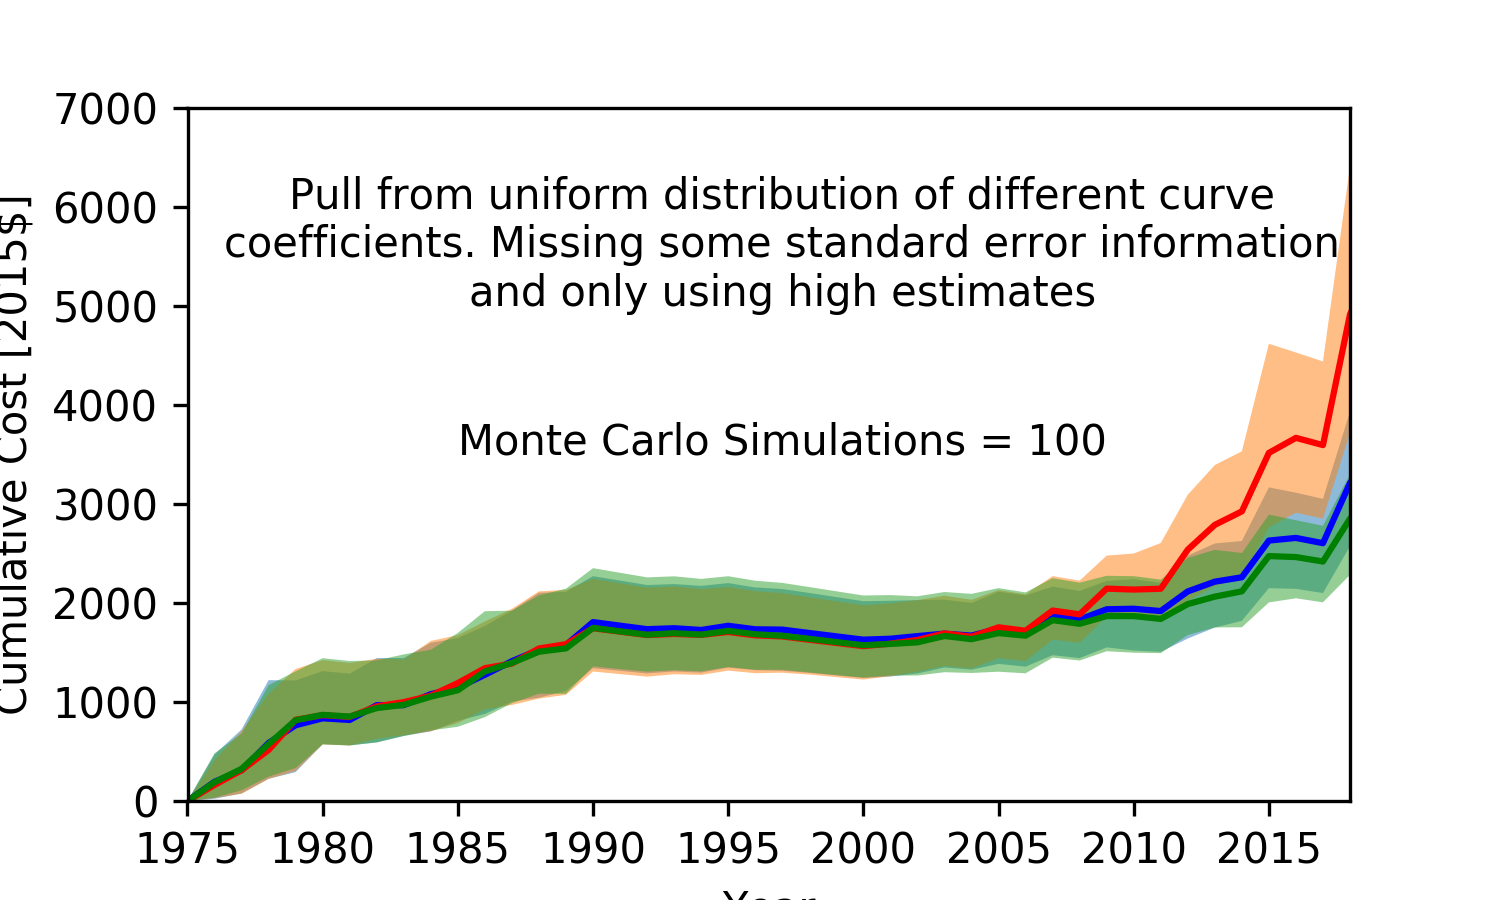
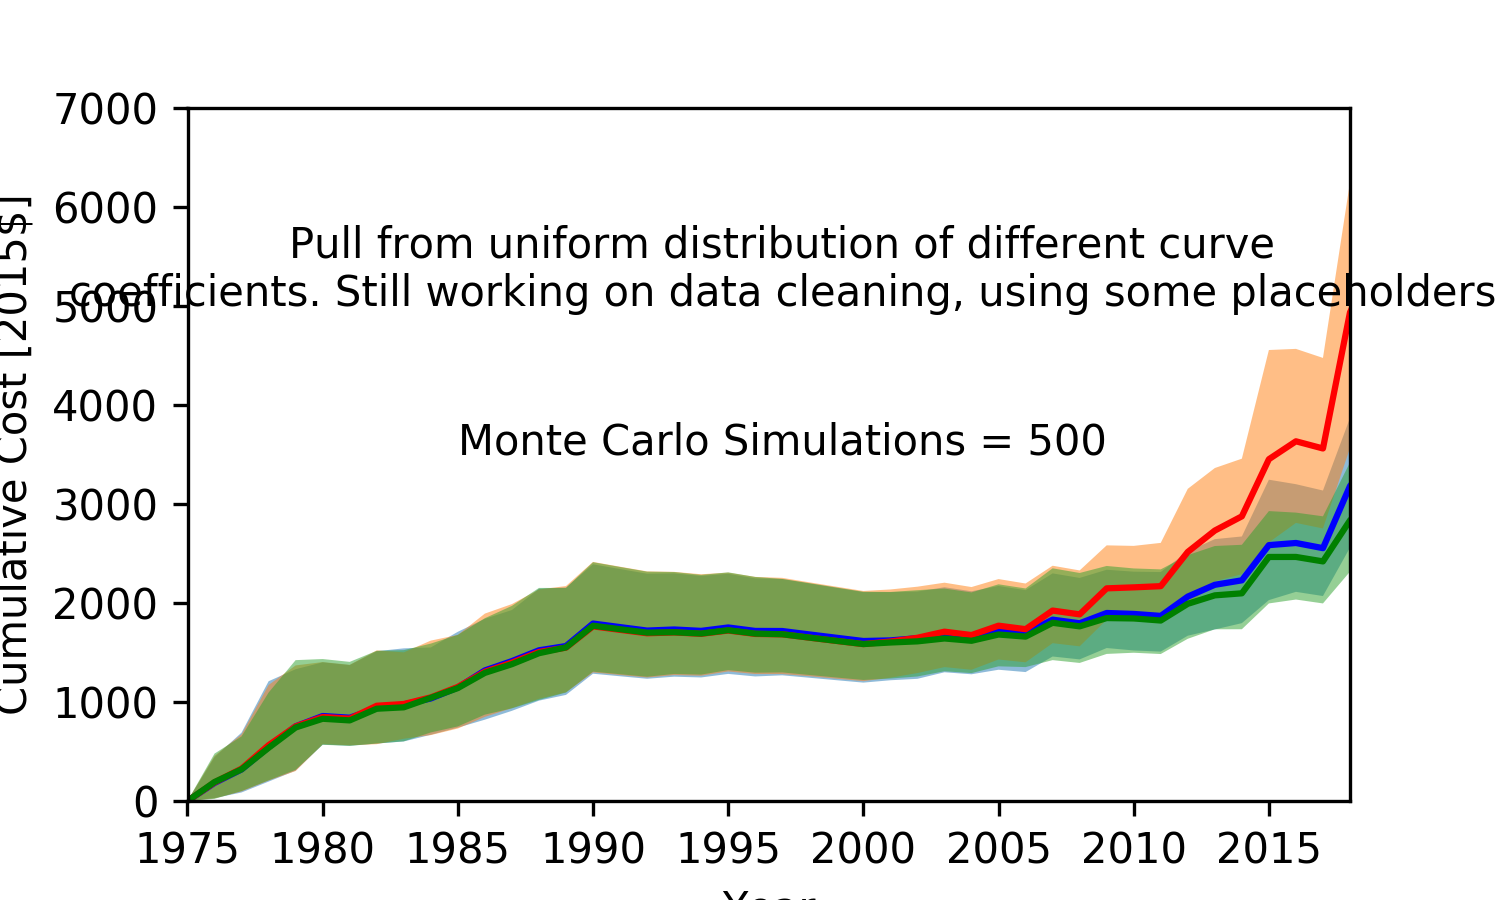
updated cost curve

diff --git a/runCostAnalysis.py b/runCostAnalysis.py
@@ -12,7 +12,7 @@ data90 = import1990() # 2 rows, one for cars, one for trucks, sales data needs c
 #data99 = import99()
 data07 = import2007() # 6 rows, low, avg, high for cars and light trucks
 data17 = import2017() # 6 rows, low, avg, high for cars and light trucks
-#data25 # not necessary for now 
+#data25 # not done yet  
 
 # create cost curves with uncertainty from the raw data
 baseYr = 2015
@@ -51,7 +51,7 @@ curveCoeffs[5,:] = data17[2,:] #cars high
 curveCoeffs[6,:] = [2025, 2010, 24.349, 4.828, 4.443, 0.2146] # the standard errors definitely aren't correct
 curveCoeffs_high = inflationConversion(curveCoeffs, baseYr)
 
-numSims = 100
+numSims = 500
 costOut_avg = np.zeros((76,5,numSims))
 costOut_low = np.zeros((76,5,numSims))
 costOut_high = np.zeros((76,5,numSims))
@@ -104,9 +104,8 @@ plt.fill_between(plotData[:,0], plotData[:,8], plotData[:,9], alpha = 0.5)
 plt.xlim(1975,2018)
 
 
-
 plt.ylim(0, 7000)
-plt.text(1997, 5000, 'Pull from uniform distribution of different curve\ncoefficients. Missing some standard error information\nand only using high estimates', HorizontalAlignment = 'center')
+plt.text(1997, 5000, 'Pull from uniform distribution of different curve\ncoefficients. Still working on data cleaning, using some placeholders', HorizontalAlignment = 'center')
 plt.text(1997, 3500, 'Monte Carlo Simulations = '+str(numSims), HorizontalAlignment='center')
 plt.ylabel('Cumulative Cost ['+str(baseYr)+'$]')
 plt.xlabel('Year')
